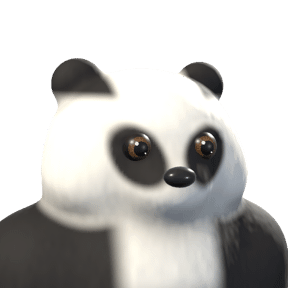
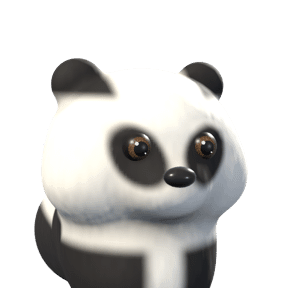
Tierkoerper statt Menschenoberkoerper
Schmale, tiefe Brust, Vorderbeine dicht beieinander, Ruecken nach hinten statt
breiter Schultern; je Art eigene Masse (Bau) und Zeichnung am Koerper.
Kopfrahmen und Zuschnitt unveraendert.

Changed region(s): [[0.0, 0.625, 1.0, 1.0]]

diff --git a/tools/figuren_rendern/Tiere.swift b/tools/figuren_rendern/Tiere.swift
@@ -72,21 +72,52 @@ func farbeMitRauschen(_ c: V, _ p: V, _ staerke: Float = 0.12) -> V { c * (1 - s
 // EINEM Abstandsfeld (keine Naht am Hals), und der Kreis schneidet den Rumpf unten ab wie bei einem
 // Brustbild. Der Kopf behaelt seine Farbe; unterhalb des Kinns gilt die des Rumpfes.
 //
-// `breite` skaliert die Schultern, `vor` schiebt die Brust nach vorn. Die Augen werden weiter am
-// Kopf allein eingesetzt — der Rumpf liegt nie auf Augenhoehe, aber er darf die Suche nicht stoeren.
-func rumpf(breite b: Float = 1, hals: Float = 0.45, vor: Float = 0, hoehe h: Float = 0) -> [Form] {
-    [
-        Form(art: .rundkegel(V(0, -0.80, 0.05), hals, hals + 0.18), mitte: V(0, -0.35 + h, -0.10), weich: 0.30),
-        Form(art: .ellipsoid(V(1.70 * b, 1.05, 1.00)), mitte: V(0, -1.65 + h, -0.05), weich: 0.35),
-        Form(art: .ellipsoid(V(0.85 * b, 0.85, 0.62)), mitte: V(0, -1.20 + h, 0.40 + vor), weich: 0.30),
-        // Schultern: tragen die Breite bis an den Kreisrand, sonst steht unter dem Kopf nur ein Hals.
-        Form(art: .ellipsoid(V(0.62, 0.55, 0.60)), mitte: V(-1.05 * b, -1.10 + h, 0.0), weich: 0.35),
-        Form(art: .ellipsoid(V(0.62, 0.55, 0.60)), mitte: V(1.05 * b, -1.10 + h, 0.0), weich: 0.35),
+// Erste Fassung (breite Schultern quer zur Blickrichtung) sah aus "wie ein menschlicher Oberkoerper"
+// (Inhaber). Ein Vierbeiner ist anders gebaut: Die Brust ist SCHMAL und TIEF, darunter stehen zwei
+// Vorderbeine dicht beieinander, ueber ihnen die Schulterblaetter, und der Rumpf laeuft hinter dem
+// Kopf nach HINTEN weg, nicht zur Seite. Durch die Drehung des Tieres erscheint der Ruecken dann
+// seitlich hinter dem Kopf — genau das Bild eines sitzenden Tieres im Portraet.
+//
+// Die Augen werden weiter am Kopf allein eingesetzt — der Rumpf liegt nie auf Augenhoehe.
+struct Bau {
+    var brust: Float = 1            // Breite der Brust (1 = schmal wie bei Fuchs und Katze)
+    var tiefe: Float = 1            // wie weit die Brust nach vorn gewoelbt ist
+    var hals: Float = 0.40          // Halsradius oben
+    var halsLaenge: Float = 1       // >1: langer Hals (Reh)
+    var bein: Float = 0.18          // Radius der Vorderbeine
+    var beinAbstand: Float = 0.24   // halber Abstand der Vorderbeine
+    var beinOben: Float = -1.25     // wo die Beine aus der Brust kommen
+    var ruecken: Float = 0.62       // Radius des Rumpfes
+    var rueckenLaenge: Float = 1.7
+    var rueckenHoehe: Float = -1.0  // Hoehe des Widerrists
+}
+func vierbeiner(_ b: Bau) -> [Form] {
+    let l = b.halsLaenge
+    var f: [Form] = [
+        // Hals: vom Hinterkopf schraeg nach vorn unten zur Brust.
+        Form(art: .rundkegel(V(0, -0.75 * l, 0.30), b.hals, b.hals + 0.12), mitte: V(0, -0.30, -0.30), weich: 0.28),
+        // Brust: schmal und tief, vorn unter dem Kinn.
+        Form(art: .ellipsoid(V(0.50 * b.brust, 0.62, 0.55 * b.tiefe)), mitte: V(0, -0.95 - 0.30 * l, 0.15 + 0.20 * (b.tiefe - 1)), weich: 0.28),
+        // Rumpf: hinter dem Kopf nach hinten, leicht abfallend.
+        Form(art: .rundkegel(V(0, -0.35, -b.rueckenLaenge), b.ruecken, b.ruecken * 0.92),
+             mitte: V(0, b.rueckenHoehe - 0.25 * (l - 1), -0.30), weich: 0.35),
     ]
+    for s: Float in [-1, 1] {
+        // Schulterblatt ueber dem Bein, dann das Bein senkrecht nach unten.
+        f.append(Form(art: .ellipsoid(V(0.24, 0.44, 0.36)), mitte: V(s * (b.beinAbstand + 0.14), b.beinOben + 0.30, -0.02), weich: 0.25))
+        f.append(Form(art: .rundkegel(V(0, -1.40, 0.06), b.bein, b.bein * 0.85),
+                      mitte: V(s * b.beinAbstand, b.beinOben, 0.22), weich: 0.10))
+    }
+    return f
+}
+// Wie weit unten ein Punkt am Bein liegt (0 oben an der Brust, 1 tief unten) — fuer Fussfarben.
+func beinUnten(_ p: V, _ b: Bau, ab: Float = 0.5) -> Float {
+    let amBein = glatt(b.beinAbstand + b.bein + 0.10, b.beinAbstand + b.bein - 0.05, abs(abs(p.x) - b.beinAbstand) + b.beinAbstand)
+    return amBein * glatt(b.beinOben - ab, b.beinOben - ab - 0.30, p.y) * glatt(-0.2, 0.1, p.z)
 }
 // Der Brustlatz, die helle Flaeche vorn, die viele dieser Tiere tragen.
-func latz(_ p: V, breite: Float = 0.42, hoehe h: Float = 0) -> Float {
-    region(p, V(0, -1.10 + h, 0.90), V(breite, 0.70, 0.50), 0.35)
+func latz(_ p: V, breite: Float = 0.30, hoehe h: Float = 0) -> Float {
+    region(p, V(0, -0.95 + h, 0.70), V(breite, 0.75, 0.45), 0.35)
 }
 // Kopf und Rumpf in einem Koerper. Die Farbe richtet sich nach dem ABSTAND zum Kopf, nicht nach der
 // Hoehe: Nach der Hoehe trugen die Schultern die Kopffarbe unter dem Kinn (beim Fuchs weisse Flecken),
@@ -98,7 +129,8 @@ func brustbild(_ kopf: Koerper, _ formen: [Form], farbe: @escaping (V, V) -> V) 
     k.farbe = { p, n in mische(kopfFarbe(p, n), farbe(p, n), glatt(0.02, 0.16, kopf.abstand(p))) }
     return k
 }
-func brustKnoten(_ k: Koerper) -> SCNNode { kopfKnoten(k, grenze: 2.6, n: 236) }
+// Der Rumpf reicht nach hinten bis z = -3 (Dackel); die Rasterweite bleibt die des Kopfes.
+func brustKnoten(_ k: Koerper) -> SCNNode { kopfKnoten(k, grenze: 3.1, n: 282) }
 
 // ---------- Fuchs ----------
 
@@ -127,8 +159,11 @@ func fuchs() -> (SCNNode, Float, V) {
         c *= 1 - 0.25 * glatt(1.1, 1.6, p.z) * glatt(-0.30, -0.05, p.y)
         return c
     }, rauheit: 0.72, fell: 0.07)
-    let koerper = brustbild(kopf, rumpf(breite: 0.95, hals: 0.42), farbe: { p, _ in
-        mische(farbeMitRauschen(rot, p, 0.08), farbeMitRauschen(weiss, p, 0.04), latz(p, breite: 0.32))
+    let bau = Bau(tiefe: 1.45)
+    let koerper = brustbild(kopf, vierbeiner(bau), farbe: { p, _ in
+        // Weisse Kehle und Brust, dunkle "Struempfe" an den Vorderbeinen.
+        let c = mische(farbeMitRauschen(rot, p, 0.08), farbeMitRauschen(weiss, p, 0.04), latz(p, breite: 0.28))
+        return mische(c, dunkel, beinUnten(p, bau, ab: 0.30) * 0.85)
     })
     let w = SCNNode(); w.addChildNode(brustKnoten(koerper))
     nase(w, [Form(art: .ellipsoid(V(0.115, 0.08, 0.10)), mitte: V(0, -0.27, 1.64))], farbe: hex("#161112"))
@@ -166,8 +201,14 @@ func katze() -> (SCNNode, Float, V) {
         c = mische(c, rosa, ohr * 0.85)
         return c
     }, rauheit: 0.72, fell: 0.06)
-    let koerper = brustbild(kopf, rumpf(breite: 0.95, hals: 0.42), farbe: { p, _ in
-        mische(farbeMitRauschen(rot, p, 0.07), farbeMitRauschen(weiss, p, 0.04), latz(p, breite: 0.34))
+    let bau = Bau(bein: 0.17, ruecken: 0.60)
+    let koerper = brustbild(kopf, vierbeiner(bau), farbe: { p, _ in
+        // Getigert auch am Koerper: Ringe um die Beine, Streifen ueber den Ruecken; weisse Brust.
+        var c = farbeMitRauschen(rot, p, 0.07)
+        let ringe = glatt(0.72, 0.85, sinf(p.y * 11 + abs(p.x) * 2) * 0.5 + 0.5) * glatt(-1.3, -1.5, p.y)
+        let ruecken = glatt(0.74, 0.86, sinf(p.z * 8 + p.y * 2) * 0.5 + 0.5) * glatt(0.0, -0.4, p.z)
+        c = mische(c, streifen, max(ringe, ruecken) * 0.8)
+        return mische(c, farbeMitRauschen(weiss, p, 0.04), latz(p, breite: 0.30))
     })
     let w = SCNNode(); w.addChildNode(brustKnoten(koerper))
     nase(w, [Form(art: .rundkegel(V(0, -0.10, 0.02), 0.07, 0.03), mitte: V(0, -0.06, 0.92), stauchung: V(1.6, 1, 1))], farbe: hex("#D98A88"), lack: 0.6)
@@ -198,8 +239,9 @@ func baer() -> (SCNNode, Float, V) {
         c = mische(c, innen, glatt(0.62, 0.72, p.y) * glatt(0.48, 0.58, abs(p.x)) * glatt(0.2, 0.6, n.z) * 0.6)
         return c
     }, rauheit: 0.78, fell: 0.08)
-    let koerper = brustbild(kopf, rumpf(breite: 1.05, hals: 0.50), farbe: { p, _ in
-        mische(farbeMitRauschen(braun, p, 0.09), farbeMitRauschen(hell, p, 0.05), latz(p, breite: 0.40) * 0.35)
+    let bau = Bau(brust: 1.45, tiefe: 1.1, hals: 0.52, bein: 0.27, beinAbstand: 0.33, ruecken: 0.85, rueckenHoehe: -0.85)
+    let koerper = brustbild(kopf, vierbeiner(bau), farbe: { p, _ in
+        mische(farbeMitRauschen(braun, p, 0.09), farbeMitRauschen(hell, p, 0.05), latz(p, breite: 0.40) * 0.25)
     })
     let w = SCNNode(); w.addChildNode(brustKnoten(koerper))
     nase(w, [Form(art: .ellipsoid(V(0.20, 0.13, 0.13)), mitte: V(0, -0.07, 1.12))], farbe: hex("#1A1312"))
@@ -234,8 +276,13 @@ func panda() -> (SCNNode, Float, V) {
         }
         return c
     }, rauheit: 0.78, fell: 0.07)
-    let koerper = brustbild(kopf, rumpf(breite: 1.05, hals: 0.50), farbe: { p, _ in
-        mische(farbeMitRauschen(schwarz, p, 0.05), farbeMitRauschen(weiss, p, 0.04), glatt(0.62, 0.38, abs(p.x)) * glatt(-1.55, -1.05, p.y))
+    let bau = Bau(brust: 1.45, tiefe: 1.1, hals: 0.52, bein: 0.27, beinAbstand: 0.33, ruecken: 0.85, rueckenHoehe: -0.90)
+    let koerper = brustbild(kopf, vierbeiner(bau), farbe: { p, _ in
+        // Das Pandamuster: weisser Koerper, schwarze Vorderbeine, und ein schwarzer Guertel ueber die
+        // Schultern, der beide Beine ueber den Ruecken verbindet.
+        let guertel = glatt(0.42, 0.30, abs(p.z + 0.40)) * glatt(-0.50, -0.72, p.y)
+        let beine = max(glatt(-0.80, -0.95, p.y) * glatt(0.10, 0.26, abs(p.x)), glatt(-1.25, -1.40, p.y))
+        return mische(farbeMitRauschen(weiss, p, 0.04), farbeMitRauschen(schwarz, p, 0.05), max(guertel, beine))
     })
     let w = SCNNode(); w.addChildNode(brustKnoten(koerper))
     nase(w, [Form(art: .ellipsoid(V(0.16, 0.10, 0.11)), mitte: V(0, -0.10, 1.06))], farbe: hex("#141212"))
@@ -268,8 +315,9 @@ func hase() -> (SCNNode, Float, V) {
         c = mische(c, rosa, ohrInnen * 0.8)
         return c
     }, rauheit: 0.80, fell: 0.07)
-    let koerper = brustbild(kopf, rumpf(breite: 1.10, hals: 0.40, hoehe: 0.05), farbe: { p, _ in
-        mische(farbeMitRauschen(grau, p, 0.10), farbeMitRauschen(hell, p, 0.04), latz(p, breite: 0.34))
+    let bau = Bau(hals: 0.42, halsLaenge: 0.7, bein: 0.15, beinAbstand: 0.20, beinOben: -1.05, ruecken: 0.90, rueckenLaenge: 1.1, rueckenHoehe: -1.05)
+    let koerper = brustbild(kopf, vierbeiner(bau), farbe: { p, _ in
+        mische(farbeMitRauschen(grau, p, 0.10), farbeMitRauschen(hell, p, 0.04), latz(p, breite: 0.30, hoehe: 0.10) * 0.85)
     })
     let w = SCNNode(); w.addChildNode(brustKnoten(koerper))
     nase(w, [Form(art: .ellipsoid(V(0.09, 0.06, 0.06)), mitte: V(0, -0.06, 0.98))], farbe: hex("#D28E8C"), lack: 0.5)
@@ -309,8 +357,11 @@ func reh() -> (SCNNode, Float, V) {
         c = mische(c, weiss, (region(p, V(-0.36, 0.42, 0.55), V(0.12, 0.06, 0.1), 0.6) + region(p, V(0.36, 0.42, 0.55), V(0.12, 0.06, 0.1), 0.6)) * 0.6)
         return c
     }, rauheit: 0.75, fell: 0.06)
-    let koerper = brustbild(kopf, rumpf(breite: 1.05, hals: 0.36), farbe: { p, _ in
-        mische(farbeMitRauschen(braun, p, 0.08), farbeMitRauschen(weiss, p, 0.04), latz(p, breite: 0.26) * 0.9)
+    let bau = Bau(brust: 0.9, hals: 0.30, halsLaenge: 1.5, bein: 0.12, beinAbstand: 0.20, beinOben: -1.55, ruecken: 0.62, rueckenHoehe: -1.10)
+    let koerper = brustbild(kopf, vierbeiner(bau), farbe: { p, _ in
+        // Rehe tragen einen hellen Kehlfleck gleich unter dem Kinn, die Brust bleibt braun.
+        let kehle = region(p, V(0, -0.60, 0.50), V(0.26, 0.20, 0.45), 0.4)
+        return mische(farbeMitRauschen(braun, p, 0.08), farbeMitRauschen(weiss, p, 0.04), kehle * 0.9)
     })
     let w = SCNNode(); w.addChildNode(brustKnoten(koerper))
     nase(w, [Form(art: .ellipsoid(V(0.18, 0.12, 0.10)), mitte: V(0, -0.30, 1.22))], farbe: hex("#141011"))
@@ -348,8 +399,9 @@ func dackel() -> (SCNNode, Float, V) {
         c *= 1 - 0.20 * glatt(1.1, 1.45, p.z)                                    // Schnauzenspitze dunkler
         return c
     }, rauheit: 0.62, fell: 0.05)
-    let koerper = brustbild(kopf, rumpf(breite: 0.90, hals: 0.42), farbe: { p, _ in
-        mische(farbeMitRauschen(rot, p, 0.07), hell, latz(p, breite: 0.30) * 0.30)
+    let bau = Bau(brust: 1.05, tiefe: 1.25, bein: 0.17, beinAbstand: 0.22, beinOben: -1.45, ruecken: 0.58, rueckenLaenge: 2.0, rueckenHoehe: -0.95)
+    let koerper = brustbild(kopf, vierbeiner(bau), farbe: { p, _ in
+        mische(farbeMitRauschen(rot, p, 0.07), hell, latz(p, breite: 0.30) * 0.25)
     })
     let w = SCNNode(); w.addChildNode(brustKnoten(koerper))
     nase(w, [Form(art: .ellipsoid(V(0.14, 0.10, 0.10)), mitte: V(0, -0.17, 1.44))], farbe: hex("#161010"))
@@ -382,8 +434,9 @@ func hund() -> (SCNNode, Float, V) {
         c = mische(c, dunkel, glatt(0.74, 0.86, abs(p.x)) * 0.75)   // Ohren dunkler golden
         return c
     }, rauheit: 0.78, fell: 0.08)
-    let koerper = brustbild(kopf, rumpf(breite: 1.00, hals: 0.46), farbe: { p, _ in
-        mische(farbeMitRauschen(gold, p, 0.08), farbeMitRauschen(hell, p, 0.05), latz(p, breite: 0.46) * 0.8)
+    let bau = Bau(brust: 1.2, tiefe: 1.1, hals: 0.48, bein: 0.20, beinAbstand: 0.26, ruecken: 0.70)
+    let koerper = brustbild(kopf, vierbeiner(bau), farbe: { p, _ in
+        mische(farbeMitRauschen(gold, p, 0.08), farbeMitRauschen(hell, p, 0.05), latz(p, breite: 0.38) * 0.7)
     })
     let w = SCNNode(); w.addChildNode(brustKnoten(koerper))
     nase(w, [Form(art: .ellipsoid(V(0.18, 0.12, 0.12)), mitte: V(0, -0.04, 1.18))], farbe: hex("#171112"))

diff --git a/docs/ios-huelle-journal.md b/docs/ios-huelle-journal.md
@@ -7,7 +7,7 @@ gehoert ebenfalls hierher — nicht stillschweigend uebersprungen. Neueste Eintr
 
 ---
 
-## ÜBERGABE an die naechste Sitzung (Stand 2026-10-13, nach Runde 133)
+## ÜBERGABE an die naechste Sitzung (Stand 2026-10-13, nach Runde 134)
 
 **Lies NUR diesen Block.** Er genuegt allein; die Eintraege darunter sind Begruendungen zum
 Nachschlagen. Dazu `tools/xcode-CLAUDE.md` (liegt als `ios/App/CLAUDE.md` neben der `.xcodeproj`
@@ -40,7 +40,8 @@ Regeln, die er gesetzt hat:
 
 | Runde | Commit | Inhalt |
 | --- | --- | --- |
-| 133 | — | Tiere mit Oberkoerper: fester Zuschnittrahmen (`rahmen.json`), Bild randlos im Kreis, Kopf deckungsgleich mit Runde 132 |
+| 134 | — | Tierkoerper statt Menschenoberkoerper: `vierbeiner(Bau(...))` — schmale tiefe Brust, Vorderbeine, Ruecken nach hinten; je Art eigene Masse und Zeichnung |
+| 133 | `9bad4bd` | Tiere mit Oberkoerper: fester Zuschnittrahmen (`rahmen.json`), Bild randlos im Kreis, Kopf deckungsgleich mit Runde 132 |
 | 132 | `7457d8f` | Funkeln statt Konfetti: vierzackige Sterne + Lichtpunkte, schweben statt zu fallen (`funkelStoss`, `.funkeln`) |
 | 131 | `f2938a4` | Startseiten-Titel wieder Fraunces; Name im Startbild in `--marke`; Symbol #5CB4AD; Hilfe als eigene Seite (`view-hilfe`); Beispieldaten 14/30/90/120; Verlauf „Gesamt"; Erinnerungen 9/14/20 + Nacherinnerung 11/16/22, Tageszeiten bis 12/18; Erfassung klappt nach dem Eintrag zu |
 | 130 | `370d20c` | Tagesform: drei Tageszeiten, je ein Eintrag (ersetzen); Erinnerungen einzeln geplant; groessere Animationen (Ergebnis-Enthuellung, Haken, Startkarten, Fragebogen, Tier wippt); weiche Vorschau-Raender; Legende des Graphen mit fester Hoehe |
@@ -77,7 +78,7 @@ Regeln, die er gesetzt hat:
 - **Symbol:** `tools/symbol_rendern.swift` (Anleitung im Kopf der Datei) → `assets/icon/`, Asset-
   Katalog, apple-touch-icon in `src/index.head.html`.
 - **Tiere:** `tools/figuren_rendern/Tiere.swift` → `bauen.sh <tier>` → ansehen →
-  `python3 tools/figuren_holen.py <tier>`. Seit Runde 133 mit Oberkoerper (`rumpf()`/`brustbild()`) und
+  `python3 tools/figuren_holen.py <tier>`. Seit Runde 133/134 mit Koerper (`vierbeiner(Bau(...))`/`brustbild()`) und
   **festem** Rahmen (`figuren_rendern/rahmen.json` — nie neu messen, sonst wandert der Kopf);
   Vergleich alt/neu im Kreis: `python3 tools/figuren_rendern/vorschau.py <alter-ordner> <tier>`.
 - **Huelle:** `MainViewController.swift` (Bildlauf, Zoomsperre, Farbschema, Transparenz,
@@ -195,6 +196,40 @@ SceneKit und CoreGraphics ja (`swiftc`).
 
 Branch `claude/lucenta-setup-browser-test-j6hn7f`, **nicht gepusht**, kein Pull Request ohne Bitte.
 Arbeitsbaum sauber bis auf `ios/App/App.xcworkspace/xcshareddata/` (absichtlich unversioniert).
+
+---
+
+## Runde 134 — Tierkoerper statt Menschenoberkoerper
+
+**Rueckmeldung des Inhabers zu Runde 133:** "die koerper sind nicht angepasst an die jeweilige
+tierart, es sieht so aus wie ein menschlicher oberkoerper."
+
+**Warum:** `rumpf()` setzte breite Schultern QUER zur Blickrichtung an, links und rechts weit
+ausladend — das ist der Bau eines Menschen. Ein Vierbeiner hat eine schmale, tiefe Brust, zwei
+Vorderbeine dicht beieinander, darueber die Schulterblaetter, und der Rumpf laeuft hinter dem Kopf
+nach HINTEN. Durch die Drehung des Tieres erscheint der Ruecken dann seitlich hinter dem Kopf.
+
+**Was geaendert ist:** `rumpf()` ersetzt durch `vierbeiner(Bau(...))` in `Tiere.swift`. `Bau` traegt
+je Art die Masse: Brustbreite und -tiefe, Hals (Reh lang und duenn), Beine (Dackel kurz und tief
+angesetzt, Bär und Panda dick), Ruecken (Dackel lang, Hase rund und kurz). Dazu die Zeichnung am
+Koerper: Fuchs weisse Kehle und dunkle "Struempfe", Katze getigert mit Ringen an den Beinen und
+weisser Brust, Panda schwarze Vorderbeine und schwarzer Guertel ueber die Schultern, Reh heller
+Kehlfleck gleich unter dem Kinn, Retriever hellere Brust. Raster jetzt bis z = -3 (`grenze: 3.1`,
+gleiche Rasterweite wie der Kopf), weil der Dackelruecken sonst hinten abgeschnitten wuerde.
+
+Kopfrahmen, Zuschnitt und CSS sind unveraendert — der Kopf liegt weiter deckungsgleich mit Runde 132
+(`vorschau.py` nachgesehen).
+
+**Am Bild gesehen:** im Kreis (`vorschau.py`) und im Raster in WebKit. Unterwegs korrigiert: Panda war
+fast nur weiss (Schwarz jetzt ab der Schulter), Reh-Kehlfleck sass als Fleck auf der Brust, unter der
+Fuchsschnauze blieb eine Luecke (Brust tiefer gewoelbt), Hase zu schmaechtig (runder Rumpf).
+
+**Unsicher:** Im Kreis ist nur wenig unter dem Kinn sichtbar — Beine sieht man praktisch nicht, der
+Eindruck "Tier" kommt vor allem vom Ruecken hinter dem Kopf und der schmalen Brust. Am Panda ist die
+Grenze zwischen Schwarz und Weiss etwas hart. Am iPhone nicht gesehen.
+
+**Pruefungen:** `npm run pruef-alles` **ALLE 9 BESTANDEN** (11,5 Minuten), `fehlersuche` KEINE FUNDE.
+Tierbilder zusammen 199 KB.
 
 ---
 
